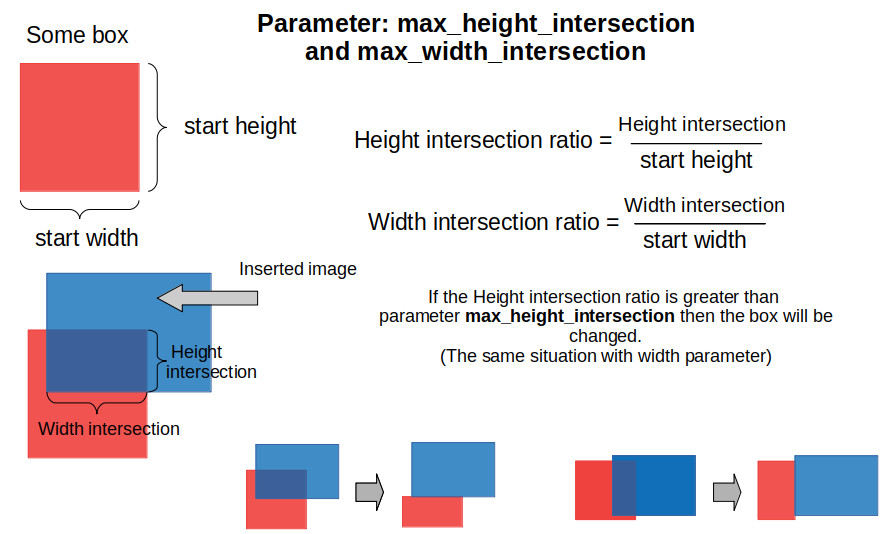
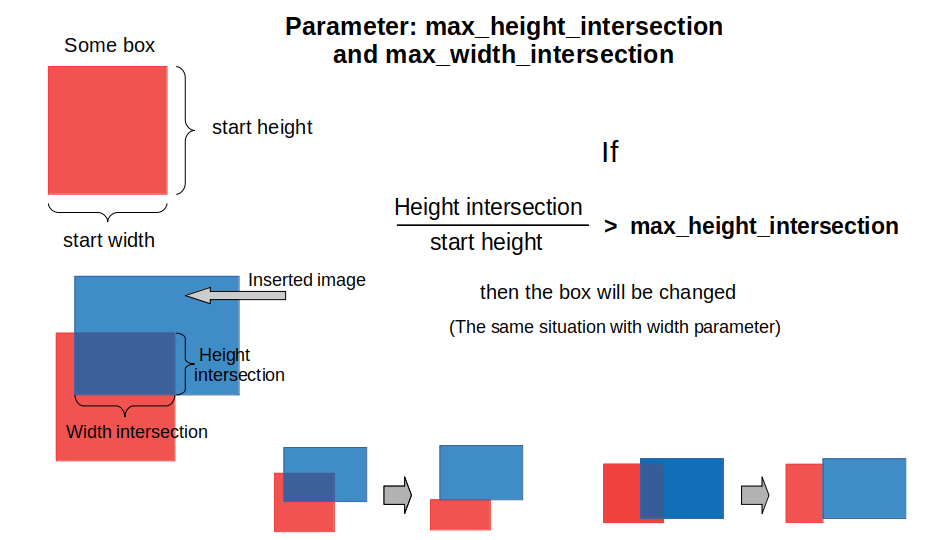
description images

diff --git a/README.md b/README.md
@@ -41,6 +41,9 @@ img, boxes, labels = cutmix(bg_img, bg_boxes, bg_labels,
   Done.
  
 ## Config Desctiption  
+<p>You can pass configuration data to the cutmix function to override its behavior.</p>  
+  
+### Rectangle parameters
 
 ```python
 rectangle_info = {
@@ -63,24 +66,30 @@ rectangle_info = {
     'insert_max_y': None,  ## By default is a random value from 0 to image width minus rectangle width
 }
 ```
-
-```python 
-process_box_config = {
-    # Maximum allowable overlap threshold. 
-    # If the overlap ratio is greater than this threshold, then the box is ignored.
-    'max_overlap_area_ratio': 0.75,  
-
-    'min_height_result_ratio': 0.25,
-    'min_width_result_ratio': 0.25,
-
-    'max_height_intersection': 0.9,
-    'max_width_intersection': 0.9,
-}
-```
-### Detailed parameters description (pictures):
+  
+### Boxes parameters
 
 <a href="/images/parameter_max_overlap_area_ratio.png">max_overlap_area_ratio</a>  
 <a href="/images/parameter_min_height_and_width_result_ratio.png">min_height_result_ratio and min_width_result_ratio</a>  
 <a href="/images/parameter_max_height_and_width_intersection.png">max_height_intersection and max_width_intersection</a>  
+  
+```python 
+process_box_config = {
+    # Maximum allowable overlap threshold. 
+    # If the overlap ratio is greater than this threshold, then the box is removed.
+    'max_overlap_area_ratio': 0.75,
+
+    # The minimum side threshold for a box. This parameter is checking after all changes of rectangle.
+    # If the ratio of the length of the previous side to the current side is less than a certain threshold, then box will be removed.
+    'min_height_result_ratio': 0.25,
+    'min_width_result_ratio': 0.25,
+
+    # Maximum allowable side overlap threshold
+    # If the image rectangle overlaps the box side more than current threshold, than box will be changed.
+    'max_height_intersection': 0.9,
+    'max_width_intersection': 0.9,
+}
+```
+ 
   
 ___
